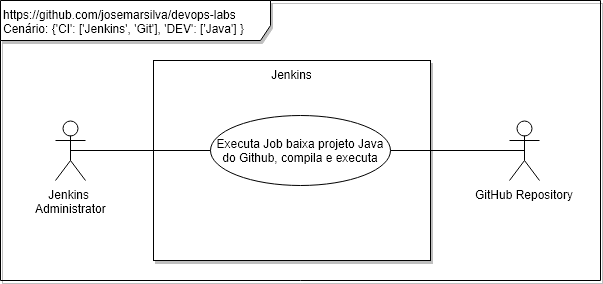
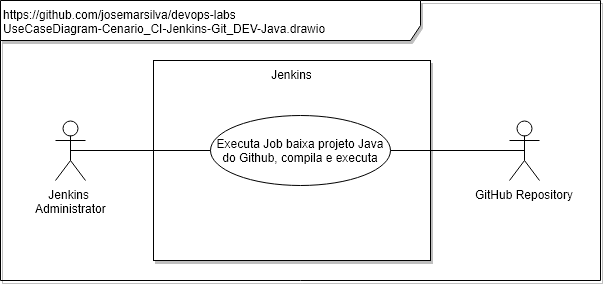
.

Changed region(s): [[0.0, 0.0, 0.7164, 0.169]]

diff --git a/doc/MindMap DevOps CI-Jenkins-Git_DEV-Java.mm b/doc/MindMap DevOps CI-Jenkins-Git_DEV-Java.mm
@@ -97,9 +97,6 @@
 <icon BUILTIN="button_ok"/>
 <node CREATED="1561306068484" ID="ID_1103171240" MODIFIED="1561309045075" TEXT="Java">
 <icon BUILTIN="button_ok"/>
-<node CREATED="1561306080856" ID="ID_50979217" MODIFIED="1561306104773" TEXT="Apache CLI">
-<icon BUILTIN="button_ok"/>
-</node>
 </node>
 </node>
 </node>
@@ -338,9 +335,6 @@
 <icon BUILTIN="button_ok"/>
 <node CREATED="1561306405661" ID="ID_759937739" MODIFIED="1561309045075" TEXT="Java">
 <icon BUILTIN="button_ok"/>
-<node CREATED="1561306080856" ID="ID_1780594589" MODIFIED="1561306104773" TEXT="Apache CLI">
-<icon BUILTIN="button_ok"/>
-</node>
 </node>
 </node>
 <node CREATED="1561306459728" ID="ID_547342853" MODIFIED="1561306894509" TEXT="CT">

diff --git a/README_Cenario_CI-Jenkins_DEV-Javac.md b/README_Cenario_CI-Jenkins_DEV-Javac.md
@@ -9,20 +9,31 @@ O objetivo deste cenário é demonstrar a ferramenta **Jenkins** integrando com 
 ![MindMap DevOps CI-Jenkins-Git_DEV-Java.png](doc/MindMap%20DevOps%20CI-Jenkins-Git_DEV-Java.png)
 
 
+### 1.3. Tópicos abordados
+No cenário de laboratório, é possível abordar tópicos dos seguintes conceitos, práticas e ferramentas:
+* CI - Continuos Integration
+* Jenkins
+* Job do Jenkins executando `git pull`
+* Job do Jenkins compilando um programa Java
+* Job do Jenkins executando uma classe Java
+* Linguagem de programação **Java**
+
+
 ---
 ## 2. Cenário
 
 ### 2.1. Diagramas 
 
 ### a. Use Case Diagram
+* Diagrama de Contexto: Jenkins pipeline orquestrando compilação e execução do programa Java `Hello`
 ![UseCaseDiagram-Cenario_CI-Jenkins-Git_DEV-Java.png](doc/UseCaseDiagram-Cenario_CI-Jenkins-Git_DEV-Java.png)
 
 
 ### b. Deploy Diagram
 ![DeployDiagram-Cenario_CI-Jenkins-Git_DEV-Java.png](doc/DeployDiagram-Cenario_CI-Jenkins-Git_DEV-Java.png)
 
-### c. Activity Diagram
-n/a
+### c. BPMN
+"[BPMN-Cenario_CI-Jenkins-Git_DEV-Java.png](BPMN-Cenario_CI-Jenkins-Git_DEV-Java.png)
 
 
 ---
@@ -31,10 +42,14 @@ n/a
 * [Jenkins instalado](https://github.com/josemarsilva/eval-jenkins)
   * [Jenkins instalado Windows](https://github.com/josemarsilva/eval-jenkins/blob/master/doc/README-GuiaConfiguracao-InstallJenkins.md)
 * [Novo Job tipo FreeStyle Execute Shell Compila e Executa um programa Java com codigo fonte baixado do GitHub](https://github.com/josemarsilva/eval-jenkins/blob/master/doc/README-GuiaDemonstracao-JobFreestyleExecShellGitJavacJavaRun.md)
+* Jenkins Master ou Slave configurado em máquina com Sistema Operacional Windows
 
 
-
+---
 ## 3. Conclusão
+
+* Conforme podemos observar, neste cenário o Jenkins fez as atividades de "Source Code Management", "Build", "Deploy" e "Execute" tudo junto e muito monolítico. Não é a melhor forma de construir
+
 
 ---
 ## I - Referências

diff --git a/README.md b/README.md
@@ -31,6 +31,8 @@ A medida que a maturidade das práticas e experiências são ampliadas, faz-se n
 
 #### a. Nivel Baixo de Maturidade
 
+* [Executa Job do Jenkins que baixa projeto do GitHub, compila e executa](README_Cenario_CI-Jenkins_DEV-Javac.md)
+
 #### b. Nivel Médio de Maturidade
 
 #### c. Nivel Elevado de Maturidade
